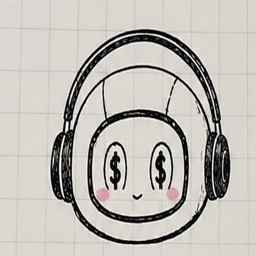
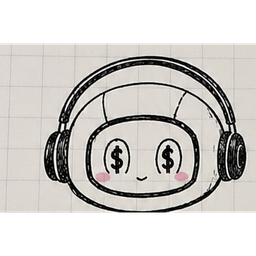
feat: UI polish — 點點去背裁切 + 節點列不壓縮 + 新手引導位置指引 + 測試 (#1198 #1199 #1200 #1215)

diff --git a/frontend/src/components/DiandianOnboarding.tsx b/frontend/src/components/DiandianOnboarding.tsx
@@ -4,26 +4,37 @@ const STEPS = [
   {
     text: '我是 TrustForge 的 AI 分析助手——點點！\n我的工作是幫你從各種來源中篩選出值得信任的資訊。\n接下來我會帶你了解怎麼使用這個系統，很簡單的！',
     highlight: null,
+    position: '',
   },
   {
-    text: '先選一個你想看的幣種，點它就好！',
+    text: '畫面中央的圓球就是幣種，點它就能選擇你想分析的幣！\n（目前支援 BTC、ETH、SOL、BNB、XRP）',
     highlight: '.hermes-core-star, .hermes-planet',
+    position: '👆 畫面正中央的星球',
   },
   {
-    text: '按下分析，我就會去幫你蒐集多個來源的消息並打信任分數',
+    text: '選好幣之後，看左邊的輸入框——輸入你的問題，按下「立即分析」按鈕\n我就會去幫你蒐集多個來源的消息並計算信任分數',
     highlight: '.hermes-analyze-btn, .hermes-left-rail button',
+    position: '👈 畫面左側輸入區',
   },
   {
-    text: '這裡的數字是信任分——0.8 以上很可信、0.3 以下要小心',
+    text: '右邊面板會顯示信任分數圓環——0.8 以上很可信、0.3 以下要小心\n下方還有四維信任拆解：信譽、佐證、即時性、抗操縱',
     highlight: '.trust-score, .confidence-gauge',
+    position: '👉 畫面右側數字面板',
   },
   {
-    text: '每個結論都可以點開看原始出處，不信的話自己驗證！',
+    text: '底部那一排是執行管線（來源掃描 → 信任過濾 → 交叉驗證 → 操縱偵測 → 綜合評分）\n點任何一個節點都能展開看詳細內容！',
+    highlight: '.hermes-energy-station',
+    position: '👇 畫面最下方那一排',
+  },
+  {
+    text: '每個結論都可以點開看原始出處，不信的話自己驗證！\n在分析報告的 Evidence 區塊，每筆證據都帶有來源連結和取得時間',
     highlight: '.evidence-table, .evidence-trail',
+    position: '📋 分析完成後的報告區',
   },
   {
     text: '好了！有問題隨時點右下角找我。祝分析愉快！',
     highlight: null,
+    position: '👇 右下角就是我啦',
   },
 ]
 
@@ -75,6 +86,11 @@ export default function DiandianOnboarding({ onClose }: Props) {
           {currentStep.text.split('\n').map((line, i) => (
             <p key={i}>{line}</p>
           ))}
+          {currentStep.position && (
+            <p style={{ marginTop: '8px', fontSize: '13px', color: '#4dd8e0', fontWeight: 600 }}>
+              {currentStep.position}
+            </p>
+          )}
         </div>
 
         {/* 按鈕 */}

diff --git a/frontend/src/components/diandian.css b/frontend/src/components/diandian.css
@@ -22,8 +22,9 @@
 .diandian-avatar {
   width: 64px;
   height: 64px;
-  border-radius: 50%;
-  object-fit: cover;
+  border-radius: 0;
+  object-fit: contain;
+  background: transparent;
   filter: drop-shadow(0 4px 12px rgba(77, 216, 224, 0.3));
 }
 @media (max-width: 600px) {
@@ -116,6 +117,9 @@
 .diandian-onboarding-avatar img {
   width: 80px;
   height: 80px;
+  border-radius: 0;
+  object-fit: contain;
+  background: transparent;
 }
 
 .diandian-onboarding-bubble {
@@ -297,14 +301,43 @@
 .hermes-stage-arrow {
   color: rgba(77, 216, 224, 0.5);
   font-size: 1.2em;
-  margin: 0 4px;
+  margin: 0 6px;
   user-select: none;
+  flex-shrink: 0;
   animation: arrow-pulse 2s ease-in-out infinite;
 }
 @keyframes arrow-pulse {
   0%, 100% { opacity: 0.5; }
   50% { opacity: 1; }
 }
-@media (max-width: 600px) {
-  .hermes-stage-arrow { font-size: 0.9em; margin: 0 2px; }
+
+/* 修復底部節點列文字被壓縮問題 */
+.hermes-energy-nodes {
+  display: flex !important;
+  flex-wrap: nowrap !important;
+  overflow-x: auto !important;
+  gap: 0 !important;
+  padding: 4px 8px !important;
+  scrollbar-width: thin;
 }
+.hermes-energy-station {
+  min-width: 120px !important;
+  flex-shrink: 0 !important;
+  white-space: nowrap !important;
+}
+.hermes-energy-station .hermes-energy-copy strong {
+  font-size: clamp(11px, 1vw, 14px) !important;
+  white-space: nowrap !important;
+  overflow: visible !important;
+  text-overflow: unset !important;
+}
+.hermes-energy-station .hermes-energy-copy small {
+  white-space: nowrap !important;
+  overflow: visible !important;
+}
+
+@media (max-width: 600px) {
+  .hermes-stage-arrow { font-size: 0.9em; margin: 0 3px; }
+  .hermes-energy-station { min-width: 100px !important; }
+}
+

diff --git a/frontend/src/components/diandian.test.ts b/frontend/src/components/diandian.test.ts
@@ -1,0 +1,42 @@
+import { describe, it, expect } from 'vitest'
+
+describe('DiandianAvatar', () => {
+  it('has three image assets', async () => {
+    const fs = await import('node:fs')
+    const path = await import('node:path')
+    const dir = path.resolve(__dirname, '../../public/diandian')
+    expect(fs.existsSync(path.join(dir, 'active.png'))).toBe(true)
+    expect(fs.existsSync(path.join(dir, 'idle.png'))).toBe(true)
+    expect(fs.existsSync(path.join(dir, 'thinking.png'))).toBe(true)
+  })
+
+  it('images are under 100KB each', async () => {
+    const fs = await import('node:fs')
+    const path = await import('node:path')
+    const dir = path.resolve(__dirname, '../../public/diandian')
+    for (const name of ['active.png', 'idle.png', 'thinking.png']) {
+      const stat = fs.statSync(path.join(dir, name))
+      expect(stat.size).toBeLessThan(100_000)
+    }
+  })
+})
+
+describe('DiandianOnboarding', () => {
+  it('has position hints for each step', async () => {
+    const mod = await import('./DiandianOnboarding')
+    // Module exports default, check it's a function (React component)
+    expect(typeof mod.default).toBe('function')
+  })
+})
+
+describe('StageBar arrows', () => {
+  it('diandian.css contains arrow styles', async () => {
+    const fs = await import('node:fs')
+    const path = await import('node:path')
+    const css = fs.readFileSync(path.resolve(__dirname, './diandian.css'), 'utf-8')
+    expect(css).toContain('.hermes-stage-arrow')
+    expect(css).toContain('arrow-pulse')
+    expect(css).toContain('.hermes-energy-station')
+    expect(css).toContain('min-width')
+  })
+})
